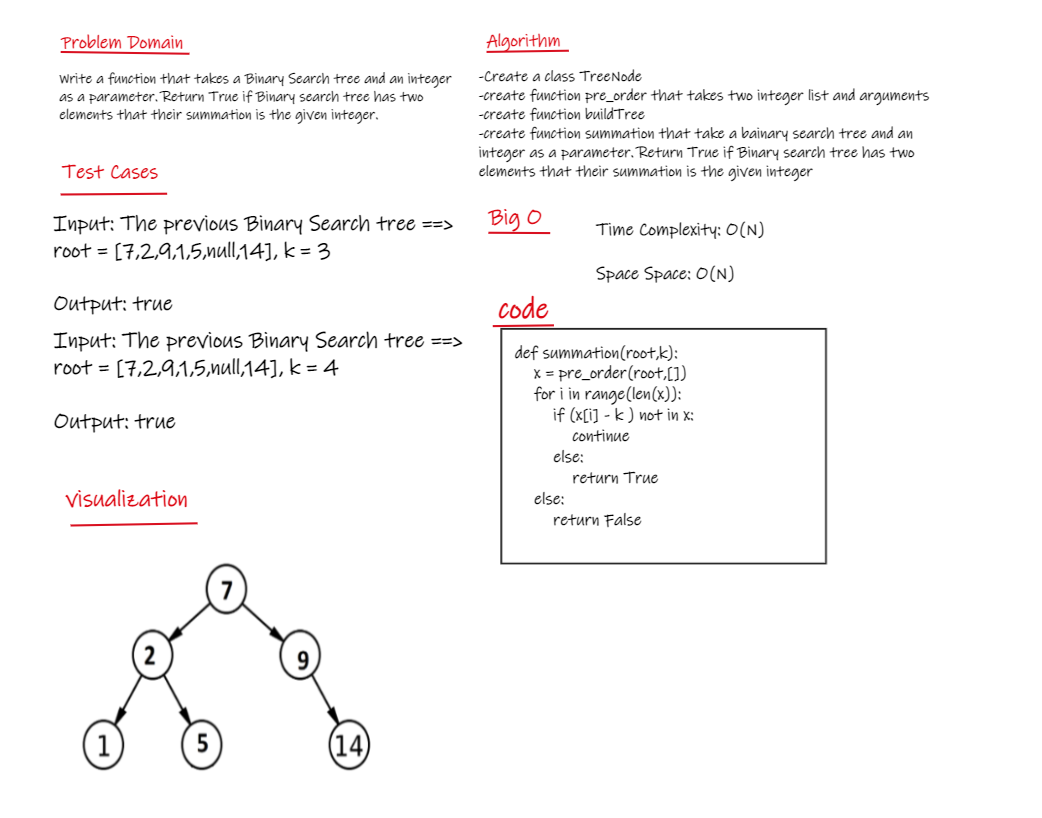
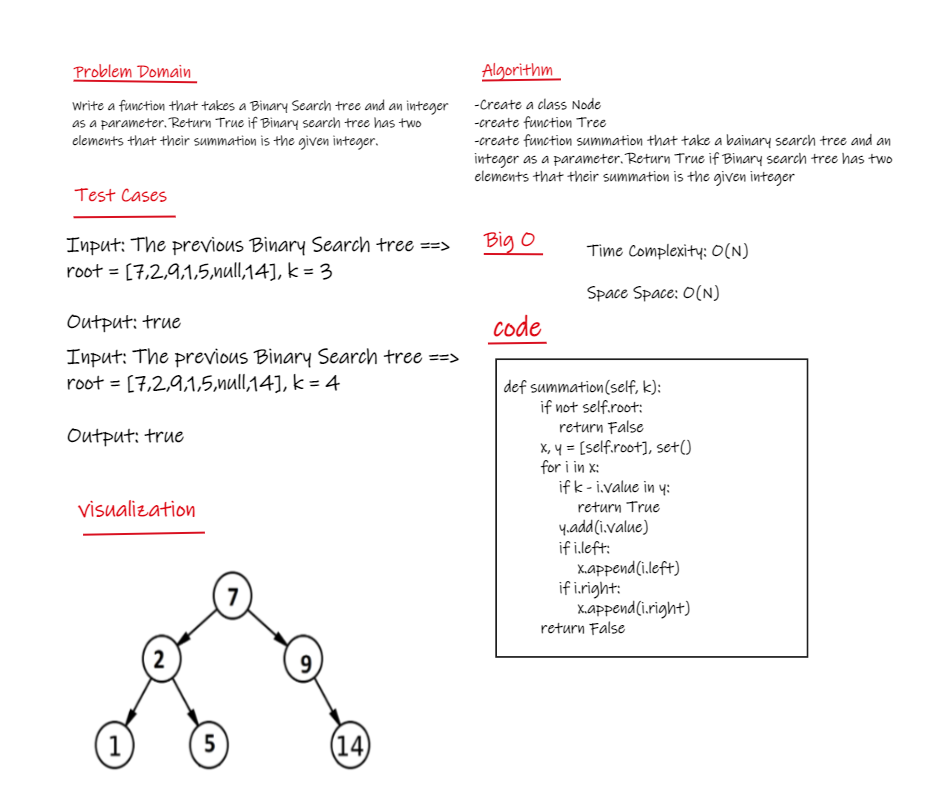
fix it

diff --git a/python/code_challenges/hashtable/challenge01/challenge01.py b/python/code_challenges/hashtable/challenge01/challenge01.py
@@ -1,54 +1,58 @@
 # Write here the code challenge solution
 
 # create node class
-class TreeNode():
-    def __init__(self, value=0, left=None, right=None):
+class Node():
+    def __init__(self, value):
         self.value = value
-        self.left = left
-        self.right = right
-    # create function that sorted Array To BST
-    def sortedArrayToBST(self,num):
-        num.sort()
-        def BST_Tree(nums):
-            if not nums:
-                return None                                          
-            m = len(nums)//2
-            return (TreeNode(nums[m],BST_Tree(nums[:m]),BST_Tree(nums[m+1:])) )
-        root=BST_Tree(num)
-        return root
+        self.left = None
+        self.right = None
 
 
-# pre order function
-def pre_order(root , x):
-    if root is not None:
-        x.append(root.value)
-    if root.left is not None:
-        pre_order(root.left , x)
-    if root.right is not None:
-        pre_order(root.right , x)
-    return x
+class Tree:
+    def __init_(self):
+        self.root = None
 
-
-
-
-
-# function that takes a Binary Search tree and an integer as a parameter. Return True if Binary search tree has two elements that their summation is the given integer
-def summation(root,k):
-    x = pre_order(root,[])
-    for i in range(len(x)):
-        if (x[i] - k ) not in x:
-            continue
-        else:
-            return True
-    else:
+    # function that takes a Binary Search tree and an integer as a parameter. Return True if Binary search tree has two elements that their summation is the given integer
+    def summation(self, k):
+        if not self.root:
+            return False
+        x, y = [self.root], set()
+        for i in x:
+            if k - i.value in y:
+                return True
+            y.add(i.value)
+            if i.left:
+                x.append(i.left)
+            if i.right:
+                x.append(i.right)
         return False
 
-# to try the function it work 
 
+# to try the function it work
 if __name__ == "__main__":
 
-    tree = TreeNode()
-    T=tree.sortedArrayToBST([7,2,9,1,5,14])
-    print(summation(T,4))
-    
+    tree1 = Tree()
+    node1 = Node(7)
+    node2 = Node(2)
+    node3 = Node(9)
+    node4 = Node(1)
+    node5 = Node(5)
+    node6 = Node(14)
 
+    node1.left = node2
+    node1.right = node3
+    node2.left = node4
+    node2.right = node5
+    node3.right = node6
+
+    tree1.root = node1
+
+    # should return True
+    tree1.summation(3)
+    z = tree1.summation(3)
+    print(z)
+
+    # should return false
+    tree1.summation(4)
+    z = tree1.summation(4)
+    print(z)

diff --git a/python/code_challenges/hashtable/challenge01/test_challenge01.py b/python/code_challenges/hashtable/challenge01/test_challenge01.py
@@ -1,24 +1,33 @@
 # Write your test here
+from challenge01 import Tree, Node
 import pytest 
 
-from challenge01 import TreeNode ,summation
+#build the tree
+tree = Tree()
+node1 = Node(7)
+node2 = Node(2)
+node3 = Node(9)
+node4 = Node(1)
+node5 = Node(5)
+node6 = Node(14)
+node1.left = node2
+node1.right = node3
+node2.left = node4
+node2.right = node5
+node3.right = node6
+tree.root = node1
+
 # test k=3
 def test1():
-    k=3
-    tree1 = TreeNode()
-    T=tree1.sortedArrayToBST([7,2,9,1,5,14])
-    assert summation(T,k) == True
+    z = tree.summation(3)
+    assert z == True
 
 # test k=4
 def test2():
-    k=4
-    tree1 = TreeNode()
-    T=tree1.sortedArrayToBST([7,2,9,1,5,14])
-    assert summation(T,k) == True
+    z = tree.summation(4)
+    assert z == False
 
-# test k=22
+# test k=5
 def test3():
-    k=22
-    tree1 = TreeNode()
-    T=tree1.sortedArrayToBST([7,2,9,1,5,14])
-    assert summation(T,k) == False
+    z = tree.summation(5)
+    assert z == False
